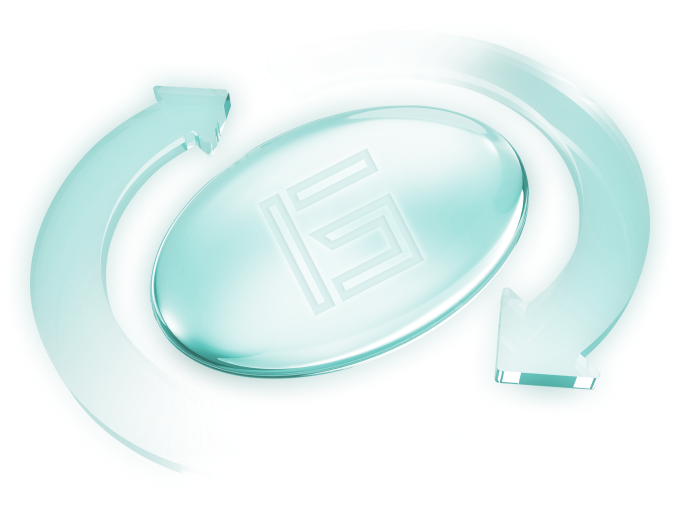
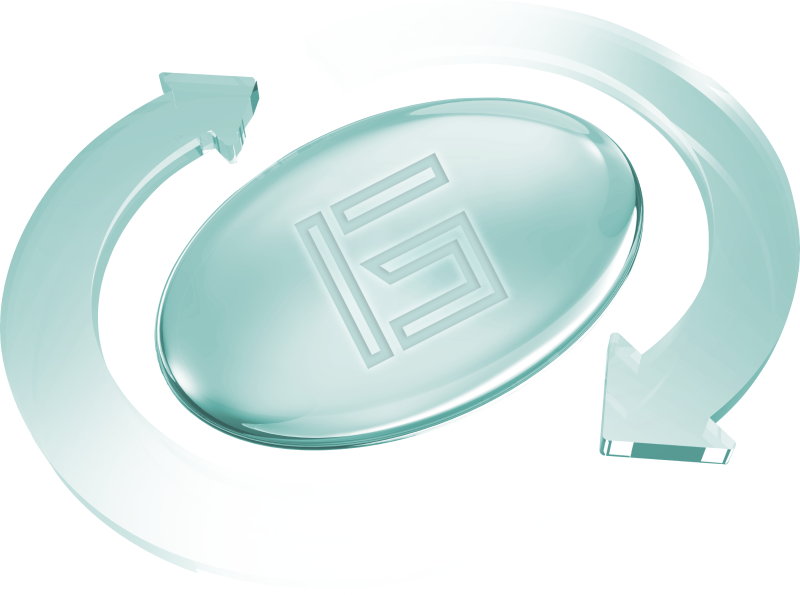
-- update img

diff --git a/src/pages/SwapToING.js b/src/pages/SwapToING.js
@@ -17,9 +17,10 @@ import {
 } from "@mui/material";
 import React from "react";
 import { CustomLoadingButton } from "../components/common/CustomButton";
-import { get } from "../utils/api";
+import { get, post } from "../utils/api";
+import { EndpointConstant } from "../settings/endpoint";
 
-const imgSrc = `/images/IG-ING.png`;
+const imgSrc = `/images/ig-ing.png`;
 
 const CustomFixedBox = styled(Box)(({ theme }) => ({
   position: "fixed",
@@ -40,9 +41,10 @@ const CustomBox = styled(Box)(({ theme }) => ({
 }));
 
 const CustomImage = styled("img")(({ theme }) => ({
-  width: "100%",
+  width: "90%",
+  paddingLeft: '10%',
   height: "100%",
-  objectFit: "fill",
+  objectFit: "contain",
 }));
 
 const SwapForm = styled(Box)(({ theme }) => ({
@@ -57,6 +59,14 @@ export default function SwapToING() {
 
   React.useEffect(() => {
     get(`/nft/swap/my-nfts`, (data) => console.log(data));
+    get(
+      EndpointConstant.SWAP_NFT_ITEM,
+      (data) => {
+        console.log(data)
+      },
+      (error) => {
+      }
+    );
   }, []);
 
   return (

diff --git a/src/settings/endpoint.js b/src/settings/endpoint.js
@@ -123,4 +123,10 @@ export const EndpointConstant = {
   STAKING_STAKE: "/staking/stake",
   STAKING_UN_STAKE: "/staking/un-stake",
   STAKING_VERIFY_STAKE: "/staking/verify-stake",
+
+  //SWAP IA TO ING
+  SWAP_NFT_ITEM: "/swap-nft-to-ing-lock/item",
+  SWAP_NFT_ITEM_PRICE: "/swap-nft-to-ing-lock/item-price",
+  SWAP_OLD_NFT: "/swap-nft-to-ing-lock/swap-old-nft",
+
 };
